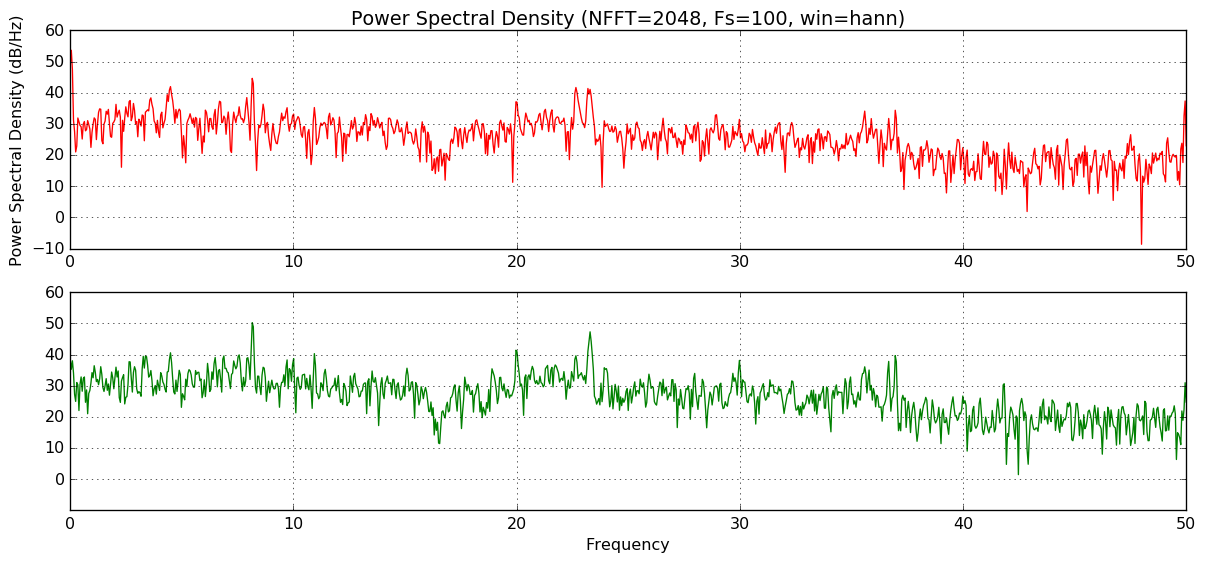
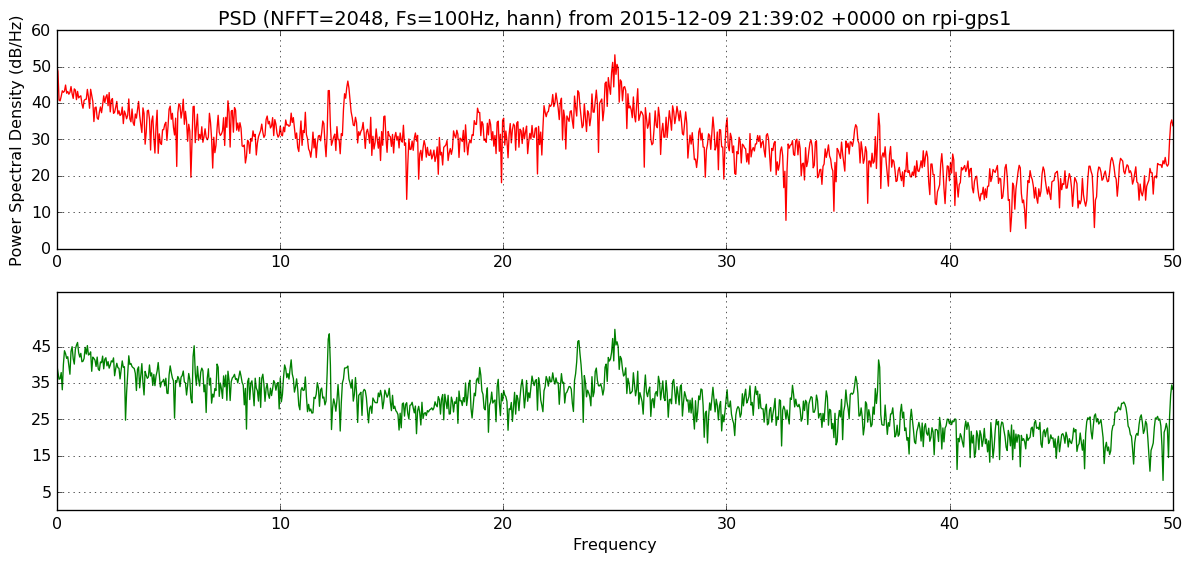
watchdog tune, no sshd, syslog

diff --git a/scripts/plot_last_min.py b/scripts/plot_last_min.py
@@ -5,6 +5,8 @@ me = singleton.SingleInstance() # will sys.exit(-1) if other instance is running
 _LOCATION_IN = "/home/pi/data/tmp"
 _LOCATION_CHARTS = "/home/pi/www/charts"
 import numpy as np
+import matplotlib
+matplotlib.use('Agg') #no window should apper when drawing.
 import matplotlib.pyplot as plt
 import matplotlib.mlab as mlab
 import os, sys
@@ -16,20 +18,22 @@ t=np.zeros(1000*60,dtype='float32')
 def readfiles():
     import re, time
     from datetime import datetime as datetime
-    import netcdf    
+    import netcdf
+    import socket
+    
     global t, ch1, ch2, sps, sampl, title
     
     files = sorted(os.listdir(_LOCATION_IN))
     d=len(files)
     fn=int(files[-1][:-3]) #remove ending ".nc" and convert to seconds
     ts1=time.gmtime(fn)    #broken down time format
-    title=time.strftime("%F %T %z",ts1)
+    title=time.strftime("%F %T %z",ts1)+' on '+socket.gethostname()
     print "%d files found, most recent: %d.nc (%s)" % (len(files), fn, title)
     
     try:
         fid = netcdf.Dataset(os.path.join(_LOCATION_IN,files[-1]), 'r')
     except:
-        print "Unexpected error while reading file: %s \n %s" % (files[-1])
+        print "Unexpected error while reading file: %s" % (os.path.join(_LOCATION_IN,files[-1]))
         return -1
     else:
         start = getattr(fid,'start')      #some string
@@ -45,6 +49,7 @@ def readfiles():
         t=np.linspace(0,60,sampl)
         fid.close()
     print "file read"
+    return 1
         
 def plot_time():
     global t, ch1, ch2, sps, sampl, title
@@ -55,7 +60,7 @@ def plot_time():
     plt.plot(t, ch1, color='red')
     plt.ylabel('voltage (mV)')
     plt.grid(True)
-    plt.title('time plot from '+title+'' )    
+    plt.title('time plot from '+title)
     
     
     
@@ -83,13 +88,23 @@ def plot_psd():
     global t, ch1, ch2, sps, sampl, title
     
     plt.clf()
-    nfft=1024 #int(2**np.ceil(np.log2(sampl)));
+    nfft=2048 #int(2**np.ceil(np.log2(sampl)));
+
+    ax1=plt.subplot(211)
     (Pxx, freqs)=plt.psd(ch1, NFFT=nfft, Fs=sps, window=mlab.window_hanning)
+    plt.title('PSD (NFFT='+str(nfft)+', Fs='+str(sps)+'Hz, hann) from '+title)
+    plt.xlabel('')
+
+    ax2=plt.subplot(212)
     (Pxx, freqs)=plt.psd(ch2, NFFT=nfft, Fs=sps, window=mlab.window_hanning)
-    plt.legend(['ch1', 'ch2'], loc='upper right')
-    plt.title('Power Spectral Density (NFFT='+str(nfft)+', Fs='+str(sps)+', win=hann)')
-    
-    plt.savefig(os.path.join(_LOCATION_CHARTS,"last_psd.png"))
+    plt.ylabel('')
+    ax2.set_ylim(ax1.get_ylim())
+
+    fig=plt.gcf()
+    f_dpi=fig.get_dpi()    
+    fig.set_size_inches(1200.0/f_dpi, 500.0/f_dpi);
+
+    plt.savefig(os.path.join(_LOCATION_CHARTS,"last_psd.png"), dpi=96, bbox_inches='tight')
     plt.clf()
     print "plotting psd finished"
 
@@ -101,7 +116,7 @@ def plot_psd_resampled():
 
     ax1=plt.subplot(211)
     (Pxx, freqs)=plt.psd(ch1[::5], NFFT=nfft, Fs=sps/5, window=mlab.window_hanning, color='red')
-    plt.title('Power Spectral Density (NFFT='+str(nfft)+', Fs='+str(sps/5)+', win=hann)')
+    plt.title('PSD (NFFT='+str(nfft)+', Fs='+str(sps/5)+'Hz, hann) from '+title)
     plt.xlabel('')
 
     ax2=plt.subplot(212)
@@ -130,8 +145,9 @@ def plot_psd_resampled():
     
 
 if __name__ == "__main__":
-    readfiles()
+    if (readfiles() < 0):
+        exit(1)
     plot_time()
-    #plot_psd()
+    plot_psd()
     plot_psd_resampled()
     sys.stdout.flush()
